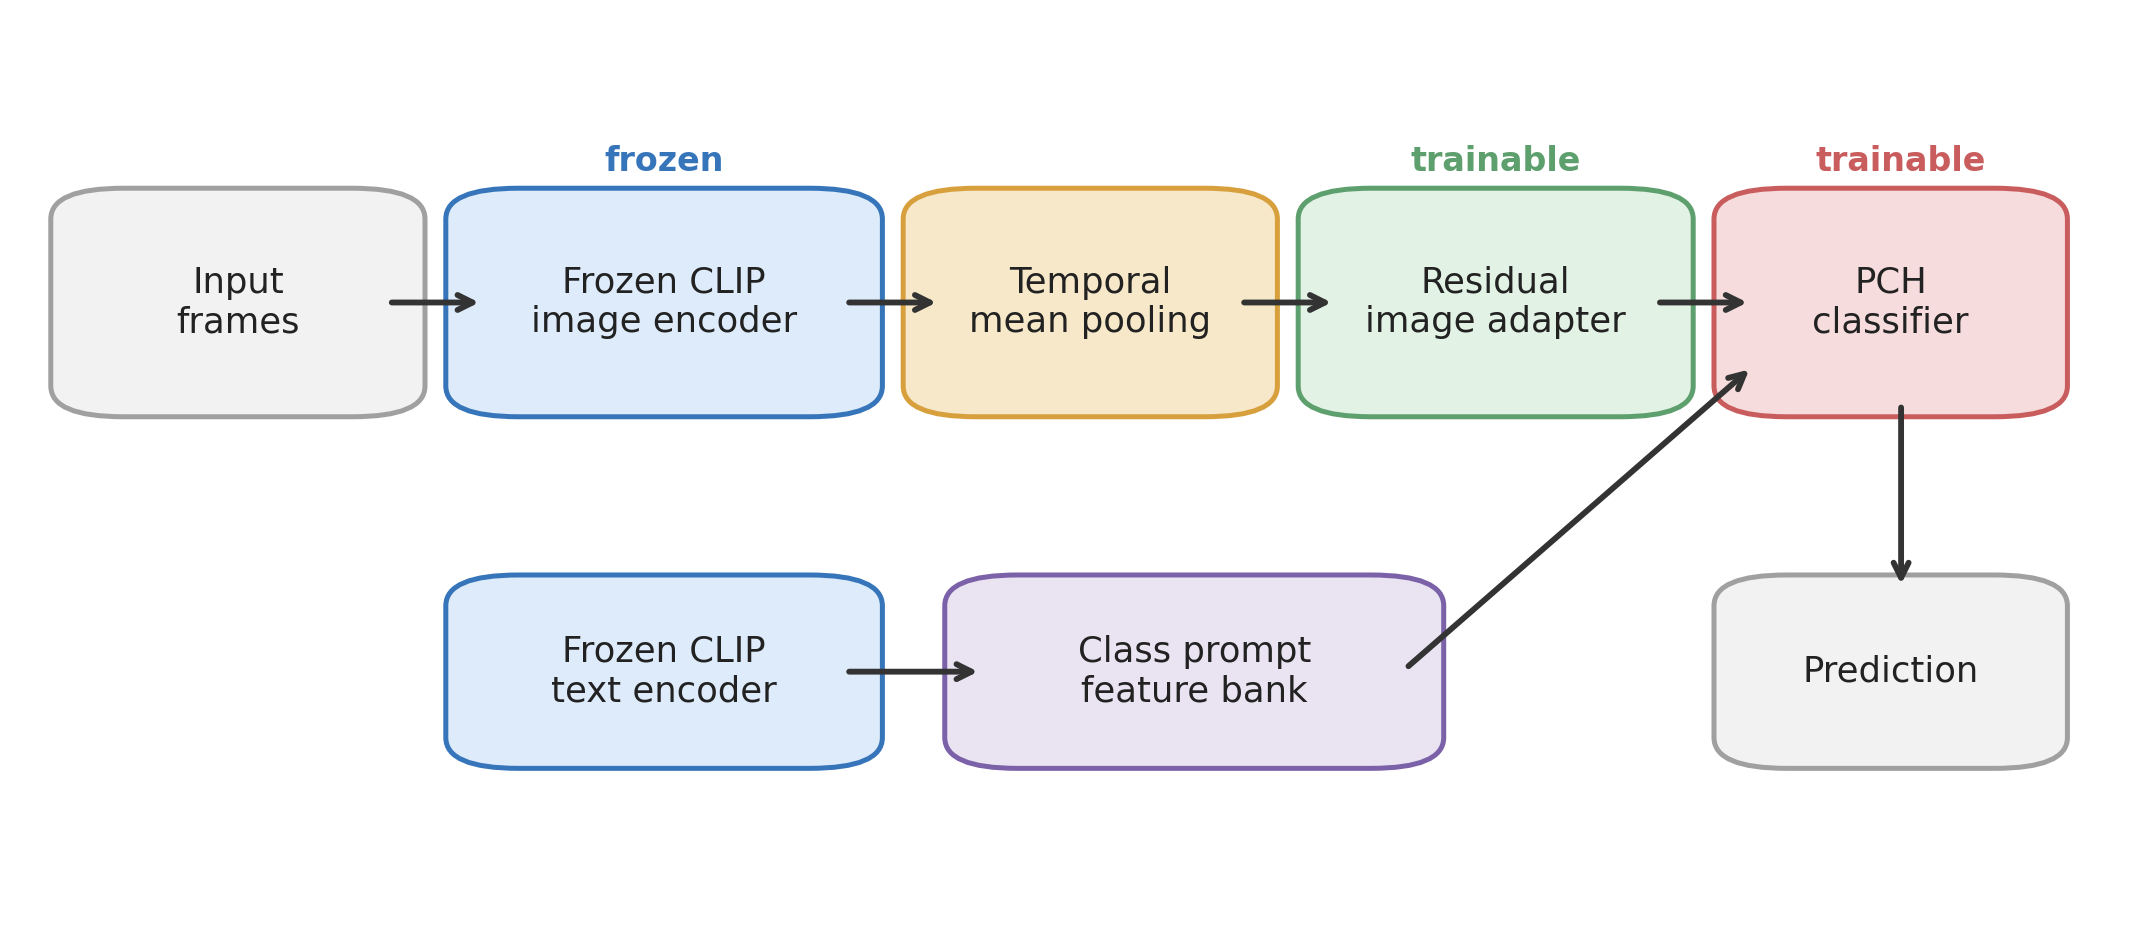
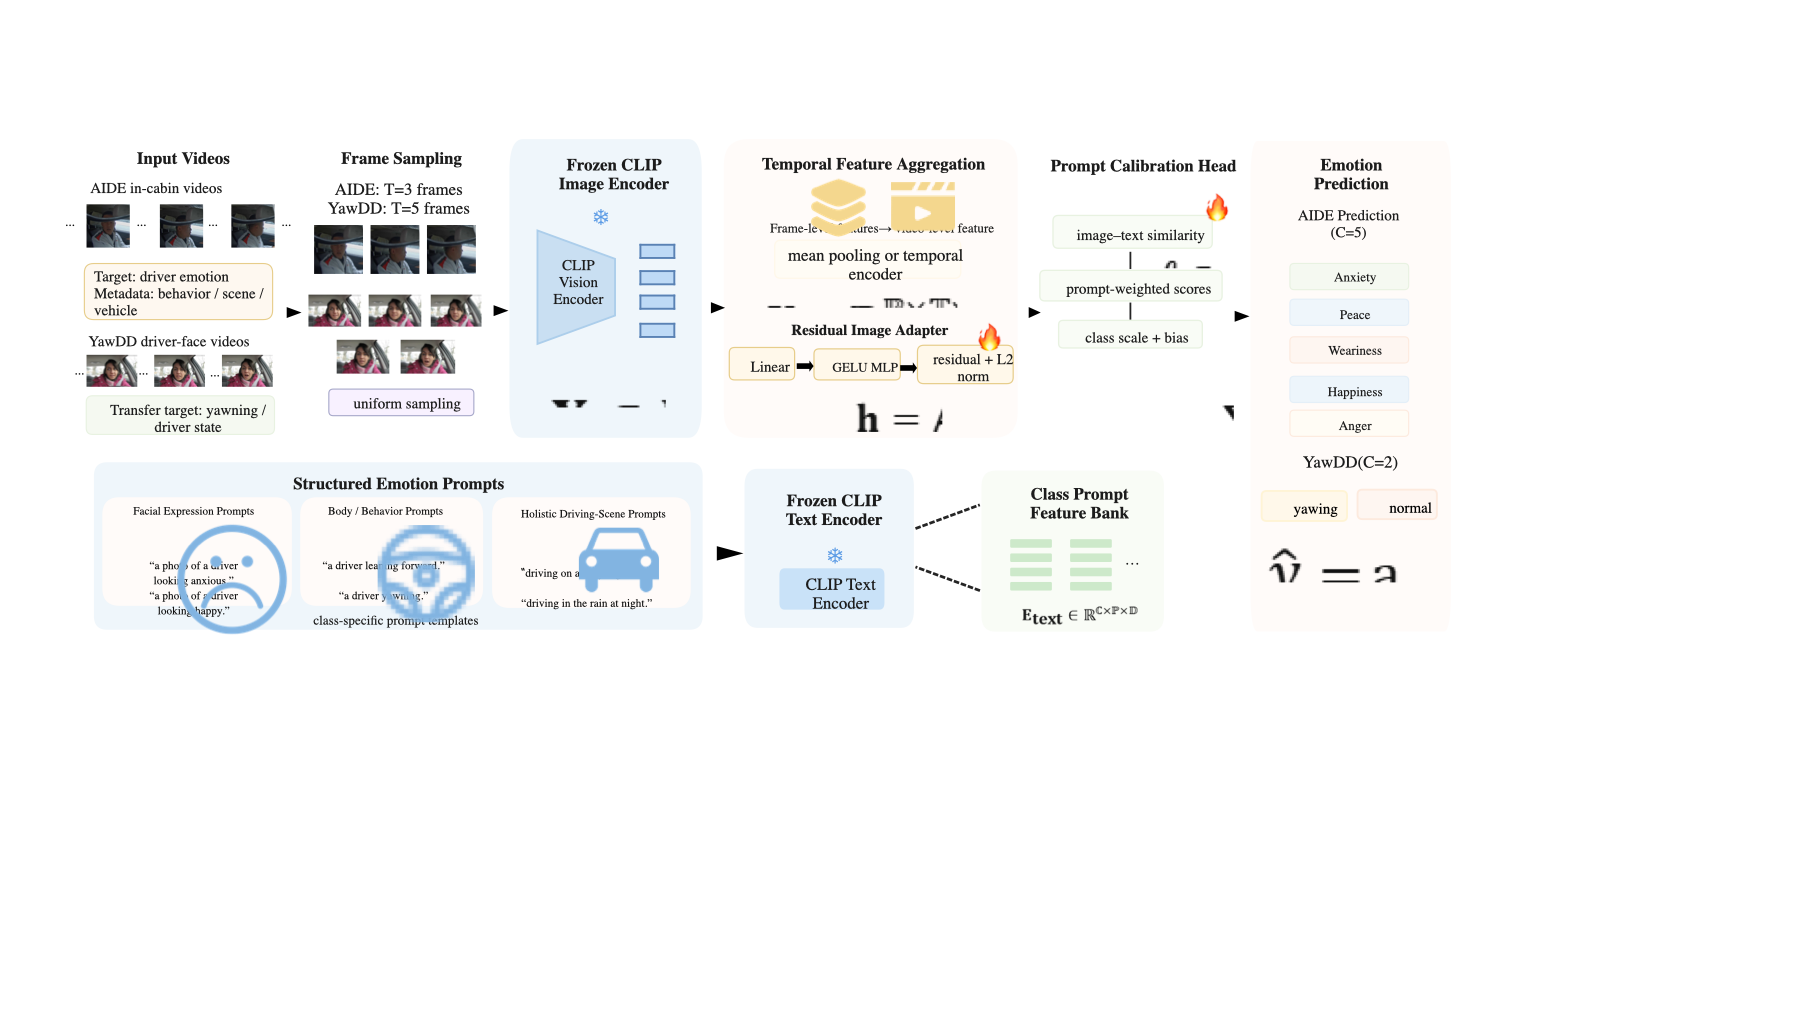
Use presentation-sourced README figures

diff --git a/README.md b/README.md
@@ -129,19 +129,17 @@ For table-ready values and row naming, see [docs/RESULTS.md](docs/RESULTS.md).
 
 ## Figures
 
+The diagrams below are exported from the supplied paper presentation deck, so the README follows the same visual material used for the manuscript rather than regenerated placeholder art.
+
 <p align="center">
-  <img src="paper_assets/fig_pch_detail.png" width="72%" alt="Prompt calibration head">
+  <img src="paper_assets/fig_temporal_aggregation_detail.png" width="82%" alt="Temporal aggregation detail from the paper presentation">
 </p>
 
 <p align="center">
-  <img src="paper_assets/fig_tsne.png" width="78%" alt="t-SNE diagnostic">
+  <img src="paper_assets/fig_pch_detail.png" width="82%" alt="Prompt calibration head detail from the paper presentation">
 </p>
 
-<p align="center">
-  <img src="paper_assets/fig_gradcam_face_selected.png" width="78%" alt="Patch relevance diagnostic">
-</p>
-
-Figure scripts live under `scripts/paper_figures/`. The patch-relevance visualisation is a CLIP patch-token diagnostic, not a supervised Grad-CAM comparison.
+Figure and diagnostic scripts live under `scripts/paper_figures/`; generated analysis plots are not displayed here unless they correspond directly to manuscript figures.
 
 ## Notes for reviewers
 
